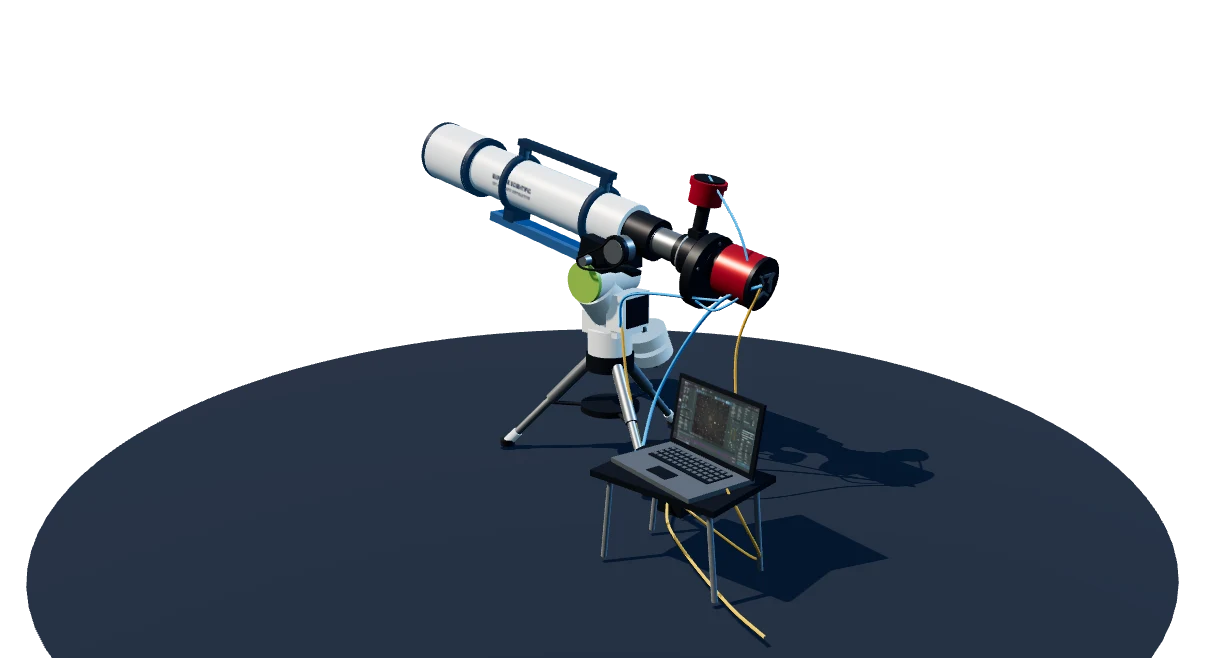
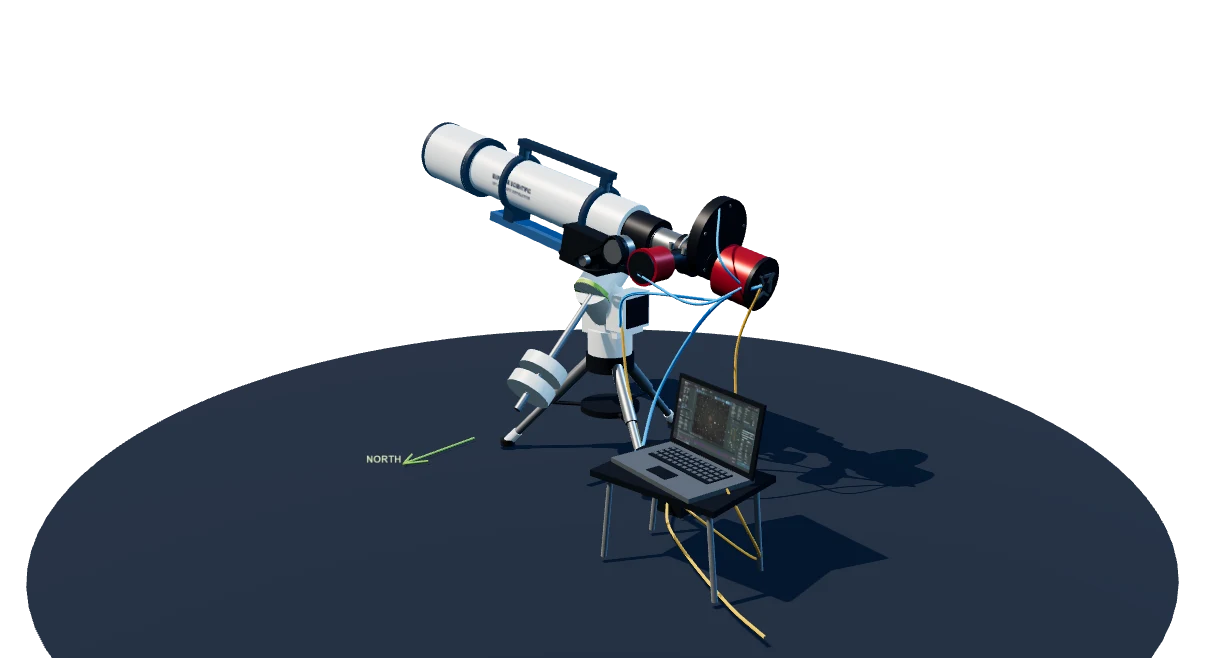
Match rig photos and orient counterweights north

Changed region(s): [[0.4056, 0.2432, 0.624, 0.6383], [0.312, 0.6687, 0.3744, 0.7295], [0.6552, 0.6991, 0.6864, 0.7599]]

diff --git a/equipment.js b/equipment.js
@@ -16,7 +16,7 @@ const components = [
     description: 'The second camera repeatedly measures guide stars while the main camera exposes. PHD2 watches their movement and asks the mount for small corrections.',
     detail: 'The guide camera receives light from the off-axis guider, so it watches through the same telescope as the imaging camera. The main camera records the photograph while the ASI290 measures the tracking corrections.', source: 'https://openphdguiding.org/man/Basic_use.htm' },
   { id: 'oag', label: 'ZWO OAG', name: 'ZWO off-axis guider', role: 'Two cameras, one telescope',
-    description: 'A small prism near the edge of the light cone redirects a little starlight upward to the guide camera. Most of the field continues toward the imaging camera.',
+    description: 'A small prism near the edge of the light cone redirects a little starlight sideways to the guide camera. Most of the field continues toward the imaging camera.',
     detail: 'Sharing the main telescope’s optical path helps the guider detect motion that a separate guide scope might miss. The drawing simplifies the prism and adapter spacing.', source: 'https://openphdguiding.org/man/Basic_use.htm' },
   { id: 'filters', label: '5-position EFW', name: 'ZWO five-position filter wheel', role: 'Choosing the wavelengths',
     description: 'The electronic filter wheel places a selected filter in front of the camera. The choice of filter changes which wavelengths of light reach the sensor.',
@@ -250,10 +250,12 @@ function createRig() {
   bar(scene, [0, 1.45, -.16], [0, 1.49, -.13], .235, materials.green, 'mount');
   box(scene, [.23, .38, .43], [.26, 1.67, .02], materials.white, 'mount');
   box(scene, [.025, .3, .34], [.39, 1.67, .02], materials.black, 'mount');
-  cylinder(scene, .21, .63, [0, 1.99, .06], materials.white, 'mount', 'z');
-  cylinder(scene, .215, .045, [0, 1.99, .4], materials.green, 'mount', 'z');
+  const decTop = [0, 2.2, -.14], decBottom = [0, 1.83, .29];
+  bar(scene, decTop, decBottom, .21, materials.white, 'mount');
+  bar(scene, [0, 1.86, .255], decBottom, .215, materials.green, 'mount');
   box(scene, [.52, .16, .43], [0, 2.17, 0], materials.black, 'mount');
-  const counterA = [0, 1.98, -.24], counterB = [.05, .84, -.75];
+  // +Z is north: the shaft continues the declination axis toward the north side.
+  const counterA = decBottom, counterB = [0, .88, 1.395];
   bar(scene, counterA, counterB, .035, materials.steel, 'mount');
   for (const fraction of [.66, .82]) {
     const center = counterA.map((value, i) => value + (counterB[i] - value) * fraction);
@@ -261,6 +263,14 @@ function createRig() {
     weight.quaternion.setFromUnitVectors(new THREE.Vector3(0, 1, 0), new THREE.Vector3(...counterB).sub(new THREE.Vector3(...counterA)).normalize());
   }
   anchor('mount', scene, [.28, 1.67, .3]);
+  bar(scene, [-1.45, .015, .7], [-1.45, .015, 1.7], .013, materials.green);
+  bar(scene, [-1.45, .015, 1.7], [-1.59, .015, 1.48], .013, materials.green);
+  bar(scene, [-1.45, .015, 1.7], [-1.31, .015, 1.48], .013, materials.green);
+  const northCanvas = document.createElement('canvas'); northCanvas.width = 256; northCanvas.height = 96;
+  const northContext = northCanvas.getContext('2d'); northContext.fillStyle = '#c3df9b'; northContext.font = 'bold 42px sans-serif'; northContext.textAlign = 'center'; northContext.fillText('NORTH', 128, 64);
+  const northTexture = new THREE.CanvasTexture(northCanvas); northTexture.colorSpace = THREE.SRGBColorSpace;
+  const northLabel = new THREE.Sprite(new THREE.SpriteMaterial({ map: northTexture, transparent: true }));
+  northLabel.position.set(-1.45, .15, 1.95); northLabel.scale.set(.63, .24, 1); scene.add(northLabel);
 
   const optics = new THREE.Group(); optics.position.set(-.18, 2.62, 0); optics.rotation.z = -.22; scene.add(optics);
   cylinder(optics, .27, 2.45, [-.71, 0, 0], materials.white, 'scope', 'x');
@@ -286,7 +296,8 @@ function createRig() {
   cylinder(optics, .215, .35, [.67, 0, 0], materials.black, 'focuser', 'x');
   cylinder(optics, .145, .34, [.98, 0, 0], materials.steel, 'focuser', 'x');
   cylinder(optics, .17, .08, [1.17, 0, 0], materials.black, 'focuser', 'x');
-  box(optics, [.34, .3, .28], [.35, -.26, .27], materials.black, 'focuser');
+  box(optics, [.53, .34, .34], [.25, -.26, .30], materials.black, 'focuser');
+  box(optics, [.55, .035, .37], [.25, -.07, .30], materials.black, 'focuser');
   box(optics, [.56, .045, .13], [.55, -.32, .24], materials.black, 'focuser');
   cylinder(optics, .145, .11, [.72, -.08, .43], materials.steel, 'focuser', 'z');
   cylinder(optics, .153, .045, [.72, -.08, .51], materials.black, 'focuser', 'z');
@@ -294,7 +305,16 @@ function createRig() {
   cylinder(optics, .054, .09, [.35, -.31, .49], materials.steel, 'focuser', 'z');
   const beltPoints = [[.72, .08, .55], [.87, -.08, .55], [.76, -.23, .55], [.35, -.37, .55], [.29, -.31, .55], [.35, -.25, .55], [.57, -.08, .55]];
   const beltCurve = new THREE.CatmullRomCurve3(beltPoints.map(point => new THREE.Vector3(...point)), true);
-  mesh(optics, new THREE.TubeGeometry(beltCurve, 80, .012, 7, true), materials.rubber, [0, 0, 0], 'focuser');
+  const beltSamples = beltCurve.getPoints(100), beltVertices = [];
+  for (let i = 0; i < beltSamples.length - 1; i++) {
+    const a = beltSamples[i], b = beltSamples[i + 1];
+    beltVertices.push(a.x, a.y, .53, b.x, b.y, .53, b.x, b.y, .59, a.x, a.y, .53, b.x, b.y, .59, a.x, a.y, .59);
+  }
+  const beltGeometry = new THREE.BufferGeometry(); beltGeometry.setAttribute('position', new THREE.Float32BufferAttribute(beltVertices, 3)); beltGeometry.computeVertexNormals();
+  const beltMaterial = materials.rubber.clone(); beltMaterial.side = THREE.DoubleSide;
+  mesh(optics, beltGeometry, beltMaterial, [0, 0, 0], 'focuser');
+  cylinder(optics, .11, .07, [.72, -.08, -.29], materials.steel, 'focuser', 'z');
+  cable(optics, [[.05, -.26, .36], [-.1, -.4, .38], [.1, -.5, .18], [.6, -.4, .12]], .012, materials.black, 'focuser');
   for (let i = 0; i < 24; i++) {
     const angle = i / 24 * Math.PI * 2;
     const tooth = box(optics, [.014, .019, .04], [.72 + Math.cos(angle) * .15, -.08 + Math.sin(angle) * .15, .51], materials.black, 'focuser');
@@ -302,23 +322,28 @@ function createRig() {
   }
   anchor('focuser', optics, [.41, -.25, .44]);
 
+  // Photo-matched train: drawtube -> OAG -> offset wheel -> ASI533.
+  // The guider projects from the OAG toward the viewer, opposite the wheel bulk.
   cylinder(optics, .2, .13, [1.28, 0, 0], materials.black, 'oag', 'x');
-  box(optics, [.13, .15, .16], [1.28, .19, 0], materials.black, 'oag');
-  cylinder(optics, .065, .29, [1.28, .37, 0], materials.black, 'oag');
+  box(optics, [.13, .16, .17], [1.28, 0, .19], materials.black, 'oag');
+  cylinder(optics, .085, .24, [1.28, 0, .34], materials.black, 'oag', 'z');
+  cylinder(optics, .115, .08, [1.28, 0, .47], materials.black, 'oag', 'z');
+  for (const x of [1.2, 1.36]) cylinder(optics, .027, .055, [x, .115, .29], materials.steel, 'oag');
   ring(optics, .195, .014, [1.22, 0, 0], materials.steel, 'oag');
-  anchor('oag', optics, [1.28, .19, .07]);
-  cylinder(optics, .16, .19, [1.28, .63, 0], materials.red, 'guide');
-  cylinder(optics, .18, .055, [1.28, .73, 0], materials.red, 'guide');
-  cylinder(optics, .152, .015, [1.28, .77, 0], materials.black, 'guide');
-  anchor('guide', optics, [1.28, .77, 0]);
+  anchor('oag', optics, [1.28, .12, .25]);
+  cylinder(optics, .16, .24, [1.28, 0, .63], materials.red, 'guide', 'z');
+  cylinder(optics, .175, .055, [1.28, 0, .77], materials.red, 'guide', 'z');
+  cylinder(optics, .15, .015, [1.28, 0, .808], materials.black, 'guide', 'z');
+  box(optics, [.09, .04, .03], [1.28, -.06, .831], materials.black, 'guide');
+  anchor('guide', optics, [1.28, .12, .77]);
 
-  cylinder(optics, .37, .115, [1.48, -.09, 0], materials.black, 'filters', 'x');
+  cylinder(optics, .40, .115, [1.48, .245, -.035], materials.black, 'filters', 'x');
   cylinder(optics, .16, .15, [1.48, 0, 0], materials.black, 'filters', 'x');
   for (let i = 0; i < 5; i++) {
     const angle = i / 5 * Math.PI * 2;
-    cylinder(optics, .017, .012, [1.545, -.09 + Math.cos(angle) * .3, Math.sin(angle) * .3], materials.steel, 'filters', 'x');
+    cylinder(optics, .017, .012, [1.545, .245 + Math.cos(angle) * .34, -.035 + Math.sin(angle) * .34], materials.steel, 'filters', 'x');
   }
-  anchor('filters', optics, [1.49, -.38, .1]);
+  anchor('filters', optics, [1.49, .59, -.035]);
   cylinder(optics, .155, .12, [1.62, 0, 0], materials.black, 'camera', 'x');
   cylinder(optics, .255, .38, [1.87, 0, 0], materials.red, 'camera', 'x');
   cylinder(optics, .26, .04, [2.08, 0, 0], materials.black, 'camera', 'x');
@@ -353,8 +378,8 @@ function createRig() {
   anchor('power', scene, [1.4, .2, .55]);
   cable(dataGroup, [[1.62, .93, 1.52], [1.3, .66, 1.2], [.95, .27, .7], [.8, .9, .2], [1.55, 2, .21], [1.98, 2.2, .18]], .018, materials.data, 'data');
   cable(dataGroup, [[1.55, 2, .21], [.5, 1.9, .35], [.35, 1.55, .25]], .014, materials.data, 'data');
-  cable(optics, [[2.06, -.06, .16], [1.84, -.3, .3], [1.53, -.35, .19]], .012, materials.data, 'data');
-  cable(optics, [[2.06, .03, .13], [1.8, .44, .13], [1.3, .81, .05]], .012, materials.data, 'data');
+  cable(optics, [[2.06, -.06, .16], [1.84, .23, .42], [1.53, .57, .12]], .012, materials.data, 'data');
+  cable(optics, [[2.06, .03, .13], [1.86, -.16, .68], [1.28, -.06, .845]], .012, materials.data, 'data');
   anchor('data', scene, [1.14, .64, .99]);
 
   optics.add(lightGroup);
@@ -362,7 +387,7 @@ function createRig() {
   const beam = mesh(lightGroup, new THREE.CylinderGeometry(.018, .25, 4.45, 40, 1, true), beamMaterial, [-.21, 0, 0]);
   beam.rotation.z = -Math.PI / 2;
   bar(lightGroup, [-2.48, 0, 0], [2.02, 0, 0], .008, new THREE.MeshBasicMaterial({ color: 0xaeeeff, depthTest: false }));
-  bar(lightGroup, [1.28, .08, 0], [1.28, .65, 0], .009, new THREE.MeshBasicMaterial({ color: 0x7dffbf, depthTest: false }));
+  bar(lightGroup, [1.28, 0, .08], [1.28, 0, .72], .009, new THREE.MeshBasicMaterial({ color: 0x7dffbf, depthTest: false }));
   lightGroup.visible = false;
 
   const markerElements = new Map();

diff --git a/equipment.html b/equipment.html
@@ -8,7 +8,7 @@
   <link rel="stylesheet" href="style.css?v=6">
   <link rel="stylesheet" href="equipment.css">
   <script type="importmap">{"imports":{"three":"./equipment-assets/vendor/three.module.js","three/addons/controls/OrbitControls.js":"./equipment-assets/vendor/OrbitControls.js"}}</script>
-  <script type="module" src="equipment.js"></script>
+  <script type="module" src="equipment.js?v=2"></script>
 </head>
 <body class="equipment-page">
   <header class="top"><div class="wrap nav">
